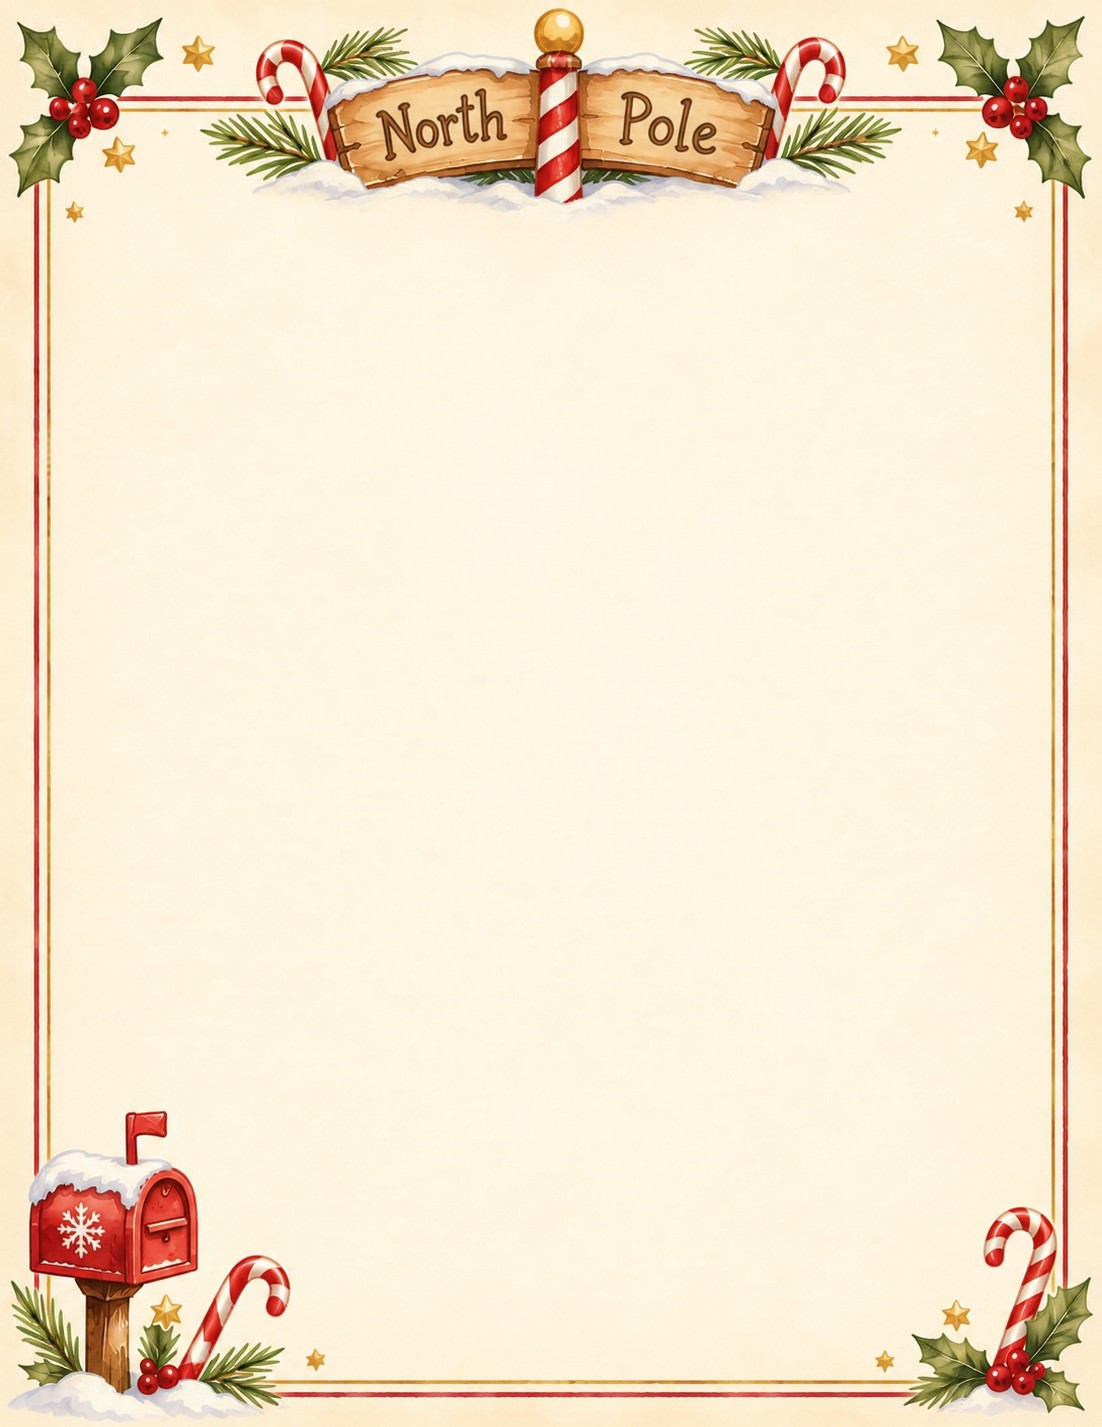
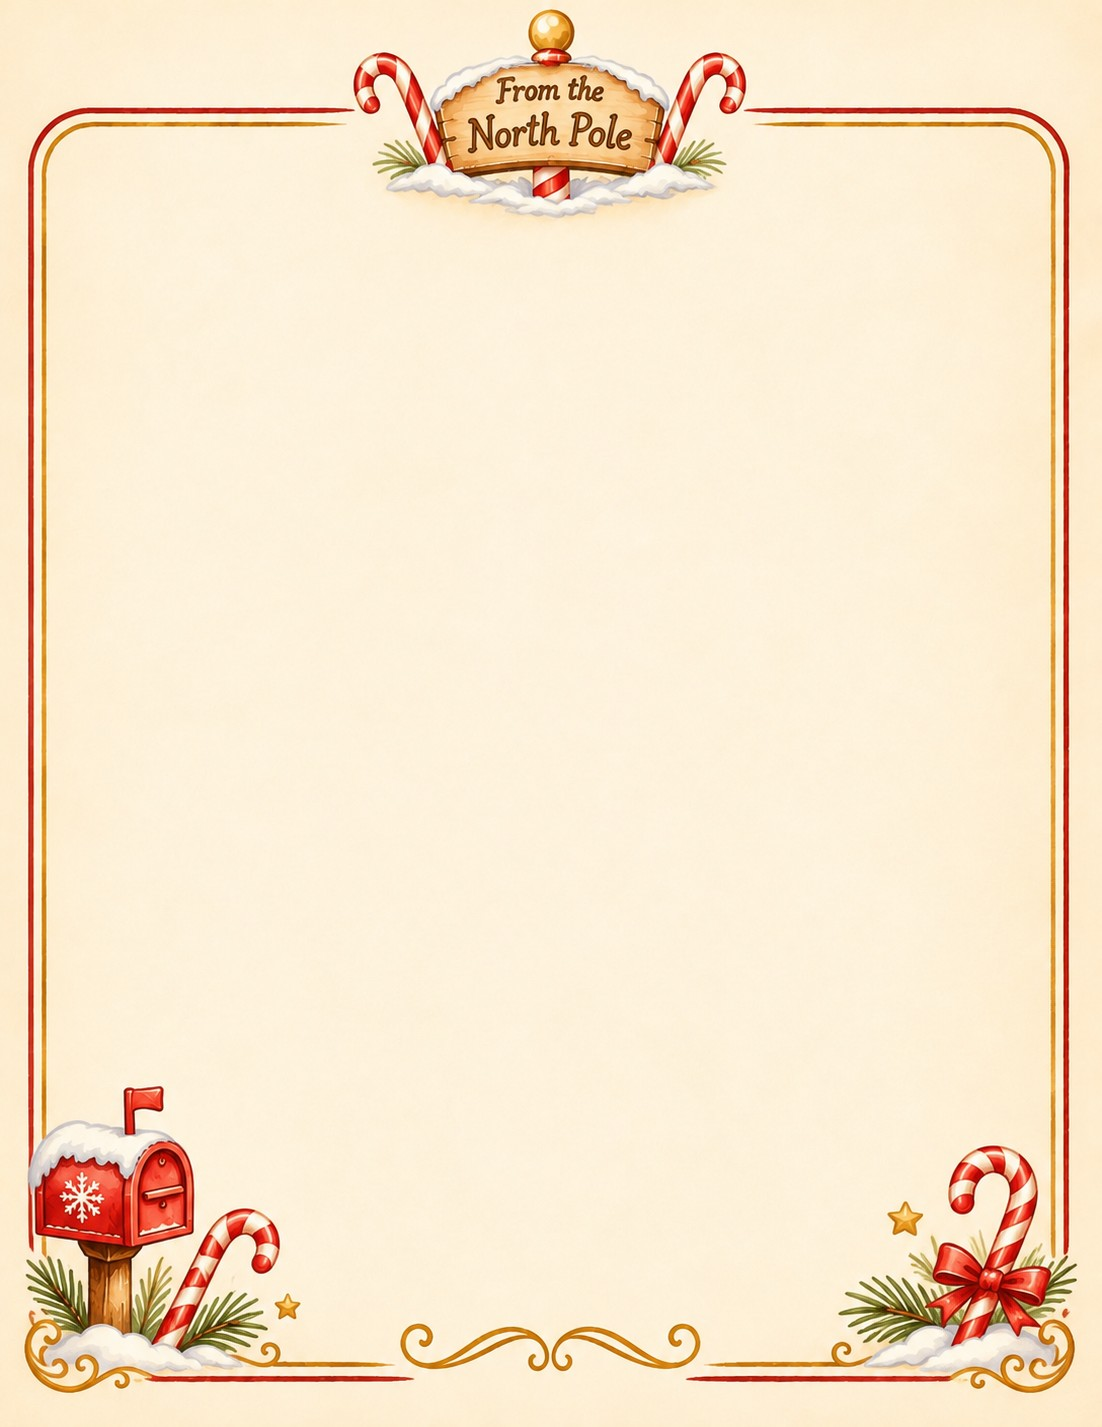
Simpler art: From the North Pole letter, bow-and-candy-cane certificate, seal at bottom center

Changed region(s): [[0.0, 0.0, 0.9873, 1.0]]

diff --git a/index.html b/index.html
@@ -43,7 +43,7 @@ details pre{white-space:pre-wrap;font-size:12px;background:var(--blush);border-r
 .checkbox ul{padding-left:18px;margin-top:4px;}
 .sheet{container-type:inline-size;position:relative;width:100%;aspect-ratio:8.5/11;background:#FBF0D9 url(art/letter-bg.jpg) center/100% 100% no-repeat;box-shadow:0 6px 24px rgba(59,42,58,.18);color:#3A2A1E;overflow:hidden;margin-bottom:26px;}
 .sheet.cert{background-image:url(art/certificate-bg.jpg);}
-.inner{position:absolute;left:15%;right:13%;top:18%;bottom:14.5%;display:flex;flex-direction:column;}
+.inner{position:absolute;left:15%;right:13%;top:19%;bottom:15%;display:flex;flex-direction:column;}
 .date{text-align:right;font-style:italic;font-size:2.3cqw;color:#6b5844;margin-bottom:1.2cqw;font-family:'Cormorant Garamond',Georgia,serif;}
 .letter{font-family:'Cormorant Garamond',Georgia,serif;font-size:2.35cqw;line-height:1.38;outline:none;}
 .letter p{margin-bottom:1.4cqw;}
@@ -51,9 +51,9 @@ details pre{white-space:pre-wrap;font-size:12px;background:var(--blush);border-r
 .sign{margin-top:1.2cqw;font-family:'Cormorant Garamond',Georgia,serif;font-size:2.4cqw;}
 .sign .sig{font-family:'Great Vibes',cursive;font-size:6cqw;line-height:1;color:#9E2A2B;display:block;margin-top:.4cqw;}
 .sign .sub{font-size:1.9cqw;color:#6b5844;font-style:italic;}
-.seal{position:absolute;right:15%;bottom:9.5%;width:10cqw;filter:drop-shadow(0 .4cqw .6cqw rgba(60,20,20,.35));}
-.cert .inner{left:12%;right:12%;top:14.5%;bottom:17%;align-items:center;text-align:center;}
-.c-small{margin-top:2cqw;font-family:Cinzel,'Cormorant Garamond',serif;letter-spacing:.9cqw;font-size:1.9cqw;color:#2F5D46;}
+.seal{position:absolute;right:23%;bottom:9.5%;width:10cqw;filter:drop-shadow(0 .4cqw .6cqw rgba(60,20,20,.35));}
+.cert .inner{left:12%;right:12%;top:17%;bottom:19%;align-items:center;text-align:center;}
+.c-small{margin-top:0;font-family:Cinzel,'Cormorant Garamond',serif;letter-spacing:.9cqw;font-size:1.9cqw;color:#2F5D46;}
 .c-title{margin-top:1.6cqw;font-family:'Great Vibes',cursive;font-size:11.5cqw;line-height:1.05;color:#9E2A2B;}
 .c-word{font-family:Cinzel,'Cormorant Garamond',serif;letter-spacing:.9cqw;font-size:3.2cqw;margin-top:.4cqw;}
 .c-cert{font-family:'Cormorant Garamond',serif;font-style:italic;font-size:2.8cqw;color:#6b5844;margin-top:2.2cqw;}
@@ -61,7 +61,7 @@ details pre{white-space:pre-wrap;font-size:12px;background:var(--blush);border-r
 .c-rule{width:46cqw;border-top:.2cqw solid #C9A24D;margin:.6cqw 0 1.6cqw;}
 .c-text{font-family:'Cormorant Garamond',serif;font-size:3cqw;line-height:1.4;max-width:60cqw;outline:none;}
 .c-sleigh{width:54cqw;margin-top:2.4cqw;}
-.c-seal{position:absolute;left:50%;top:89.2%;width:15.5cqw;transform:translate(-50%,-47%);filter:drop-shadow(0 .5cqw .8cqw rgba(60,20,20,.35));}
+.c-seal{position:absolute;left:50%;top:88%;width:15.5cqw;transform:translate(-50%,-50%);filter:drop-shadow(0 .5cqw .8cqw rgba(60,20,20,.35));}
 .c-sign{position:absolute;bottom:8%;font-family:'Great Vibes',cursive;font-size:5.4cqw;color:#9E2A2B;line-height:1;}
 .hero{display:block;width:min(82%,520px);margin:0 auto 8px;}
 footer{text-align:center;font-size:12px;color:var(--light);margin-top:34px;}
